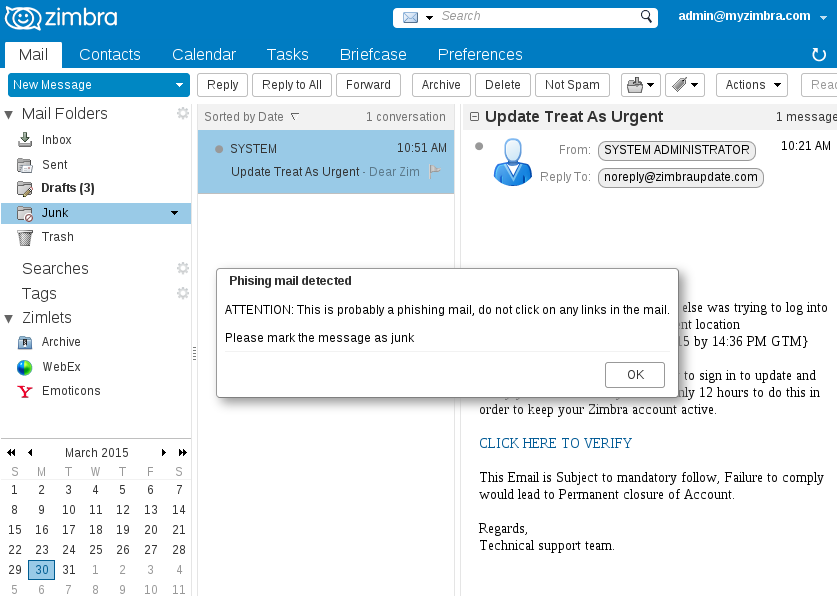
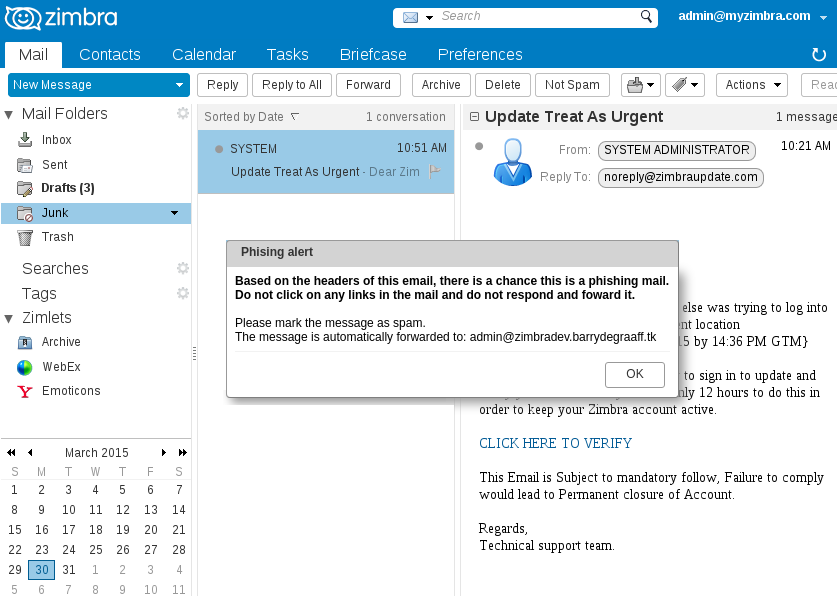
Add header: FREEMAIL_FORGED_REPLYTO Automatically notify your helpdesk You can have your users automatically submit suspicious mail to your helpdesk staff by configuring the `alertmail` property in config_template.xml.

Changed region(s): [[0.2485, 0.3926, 0.8387, 0.5738], [0.2485, 0.6644, 0.5281, 0.6946], [0.7455, 0.604, 0.7766, 0.6342]]

diff --git a/tk_barrydegraaff_sa_alert.js b/tk_barrydegraaff_sa_alert.js
@@ -1,6 +1,6 @@
 /*
 This file is part of the Spam Assassin Alert Zimlet.
-Copyright (C) 2015  Barry de Graaff
+Copyright (C) 2015-2017  Barry de Graaff
 
 Bugs and feedback: https://github.com/Zimbra-Community/sa-alert-zimlet
 
@@ -52,15 +52,113 @@ function() {
 SA_AlertZimlet.prototype.onMsgView = function (msg, oldMsg, view) {  
    try
    {
-      if(msg.attrs['X-Spam-Status'].indexOf('URI_PHISH') > 0)
-      {
-         SA_AlertZimlet.prototype._dialog = new ZmDialog( { title:'Phising mail detected', parent:this.getShell(), standardButtons:[DwtDialog.OK_BUTTON], disposeOnPopDown:true } );
-         SA_AlertZimlet.prototype._dialog.setContent('ATTENTION: This is probably a phishing mail, do not click on any links in the mail.<br><br>Please mark the message as junk');
-         SA_AlertZimlet.prototype._dialog.popup();
+      var zimletInstance = appCtxt._zimletMgr.getZimletByName('tk_barrydegraaff_sa_alert').handlerObject;   
+      var alertmail = zimletInstance._zimletContext.getConfig("alertmail");   
    
+      var alertedIds = zimletInstance.getUserProperty("alertedIds");
+      if(!alertedIds)
+      {
+         alertedIds = "";
+      }
+
+      if((msg.attrs['X-Spam-Status'].indexOf('URI_PHISH') > 0) || (msg.attrs['X-Spam-Status'].indexOf('FREEMAIL_FORGED_REPLYTO') > 0))
+      {
+         SA_AlertZimlet.prototype._dialog = new ZmDialog( { title:'Phising alert', parent:this.getShell(), standardButtons:[DwtDialog.OK_BUTTON], disposeOnPopDown:true } );
+         var alertmailTxt = "";
+         if((alertmail) && (alertedIds.indexOf(","+msg.id))<0)
+         {
+            alertmailTxt = "The message is automatically forwarded to: " + alertmail;
+         }
+         SA_AlertZimlet.prototype._dialog.setContent('<b>Based on the headers of this email, there is a chance this is a phishing mail.<br>Do not click on any links in the mail and do not respond and foward it.</b><br><br>Please mark the message as spam.<br>' + alertmailTxt);
+         SA_AlertZimlet.prototype._dialog.popup();
+         if((alertmail) && (alertedIds.indexOf(","+msg.id))<0)
+         {
+            SA_AlertZimlet.prototype.notifyAttach(msg.id);
+            alertedIds[msg.id] = msg.id;   
+            zimletInstance.setUserProperty("alertedIds", alertedIds +","+msg.id, true);
+         }
       }
    } catch (err)
    {
      // X-Spam-Status header not found  
    }
-}   
+};   
+
+/** Send this message to the configured helpdesk for analysis
+ * */
+SA_AlertZimlet.prototype.notifyAttach = function (id) { 
+   var zimletInstance = appCtxt._zimletMgr.getZimletByName('tk_barrydegraaff_sa_alert').handlerObject;
+   var alertmail = zimletInstance._zimletContext.getConfig("alertmail");
+   
+   if(alertmail)
+   {
+      var url = [];
+      var i = 0;
+      var proto = location.protocol;
+      var port = Number(location.port);
+      url[i++] = proto;
+      url[i++] = "//";
+      url[i++] = location.hostname;
+      if (port && ((proto == ZmSetting.PROTO_HTTP && port != ZmSetting.HTTP_DEFAULT_PORT) 
+      || (proto == ZmSetting.PROTO_HTTPS && port != ZmSetting.HTTPS_DEFAULT_PORT))) {
+      url[i++] = ":";
+      url[i++] = port;
+      }
+      url[i++] = "/home/";
+      url[i++]= AjxStringUtil.urlComponentEncode(appCtxt.getActiveAccount().name);
+      url[i++] = "/message.txt?fmt=txt"+"&id=";
+      url[i++] = id;
+      
+      var getUrl = url.join(""); 
+      
+      //Now make an ajax request and read the contents of this mail, including all attachments as text
+      //it should be base64 encoded
+      var xmlHttp = null;   
+      xmlHttp = new XMLHttpRequest();
+      xmlHttp.open( "GET", getUrl, false );
+      xmlHttp.send( null );
+   
+      //Check for duplicate filename   
+      var composeView = appCtxt.getCurrentView();
+      
+      req = new XMLHttpRequest();
+      req.open("POST", "/service/upload?fmt=extended,raw", true);        
+      req.setRequestHeader("Cache-Control", "no-cache");
+      req.setRequestHeader("X-Requested-With", "XMLHttpRequest");
+      req.setRequestHeader("Content-Type",  "text/plain" + ";");
+      req.setRequestHeader("X-Zimbra-Csrf-Token", window.csrfToken);
+      req.setRequestHeader("Content-Disposition", 'attachment; filename="message.eml"');
+   
+      var myWindow = this;
+      myWindow.idsToAttach = [];
+      req.onload = function(e)
+      {
+         var resp = eval("["+req.responseText+"]");
+         var respObj = resp[2];
+         var attId = "";
+         for (var i = 0; i < respObj.length; i++) 
+         {
+            if(respObj[i].aid != "undefined") {
+               myWindow.idsToAttach.push(respObj[i].aid);            
+               var attachment_list = myWindow.idsToAttach.join(",");
+   
+   
+              var cc = AjxDispatcher.run("GetComposeController");
+              var htmlCompose = appCtxt.get(ZmSetting.COMPOSE_AS_FORMAT) === ZmSetting.COMPOSE_HTML;
+              var extraBodyText = [];      
+   
+              cc._setView({
+                 action: ZmOperation.NEW_MESSAGE,
+                 inNewWindow: false,
+                 msg: new ZmMailMsg(),
+                 toOverride: alertmail,
+                 subjOverride: "Automatically submitted email for spoof check (tk_barrydegraaff_sa_alert)",
+                 extraBodyText: "Automatically submitted email for spoof check (tk_barrydegraaff_sa_alert)"
+              });
+              cc.sendMsg([].concat(attachment_list).join(","));
+            }
+         }
+      }      
+      req.send(xmlHttp.responseText);
+   }
+};

diff --git a/README.md b/README.md
@@ -1,6 +1,9 @@
 # sa-alert-zimlet
 This zimlet checks for X-Spam-Status message header and alerts the user when certain tags are found
 
+# Automatically notify your helpdesk
+You can have your users automatically submit suspicious mail to your helpdesk staff by configuring the `alertmail` property in config_template.xml.
+
 # Help us improve!
 Please help us and add more Spam Assassin tags to this Zimlet, just open a Github issue 
 and copy SA message headers of Phishing mail.
